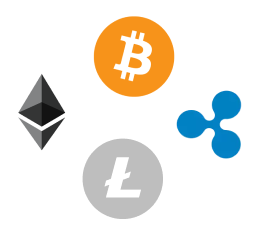
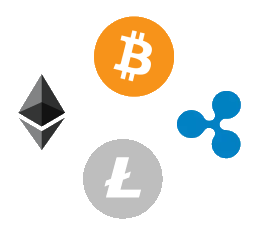
Created landing page

diff --git a/mimicoin/src/components/LandingPage.js b/mimicoin/src/components/LandingPage.js
@@ -1,0 +1,31 @@
+import React from 'react';
+
+import style from './styles/LandingPage.module.scss';
+import coinImage from '../images/coin-group.png';
+import magnifyChart from '../images/magnify-chart.svg';
+import digitalWallet from '../images/digital-wallet.svg';
+
+export const LandingPage = () => {
+  return(
+    <div className={style.landing}>
+      <div className={style.welcome}>
+        <h1>Welcome to Mimicoin!</h1>
+        <h4>Explore the wonders of cryptocurrency trading with a platform that allows you to simulate the real world.</h4>
+      </div>
+      <div className={style.introRow}>
+        <div className={style.introGroup}>
+          <img style={{width: '180px'}}src={coinImage}/>
+          <p>Follow the traffic of the giants and the newest altcoins that can be the next big thing.</p>
+        </div>
+        <div className={style.introGroup}>
+          <img src={magnifyChart}/>
+          <p>Coin prices are tracked in real-time for a more immersive experience.</p>
+        </div>
+        <div className={style.introGroup}>
+          <img src={digitalWallet}/>
+          <p>Learn what it takes to become profitable in the volatile market of cryptocurrency</p>
+        </div>
+      </div>
+    </div>
+  )
+}

diff --git a/mimicoin/src/components/styles/LandingPage.module.scss b/mimicoin/src/components/styles/LandingPage.module.scss
@@ -1,0 +1,42 @@
+$nav-font: 'ABeeZee', sans-serif;
+
+.landing{
+  font-family: $nav-font;
+  width: 100%;
+  height: 100%;
+}
+.welcome{
+  width: 100%;
+  h1{
+    width: 75%;
+    margin-left: 10%;
+    margin-top: 10%;
+    font-size: 42px;
+  }
+  h4{
+    width: 75%;
+    margin-left: 10%;
+    font-size: 28px;
+  }
+}
+
+.introRow{
+  display: flex;
+  flex-wrap: wrap;
+  width: 80%;
+  justify-content: space-around;
+  margin-left: 10%;
+  margin-top: 50px;
+  .introGroup {
+    display: flex;
+    flex-direction: column;
+    width: 180px;
+    padding-top: 50px;
+    align-items: center;
+    img{
+      width: 130px;
+      height: 160px;
+    }
+  }
+
+}

diff --git a/mimicoin/src/App.js b/mimicoin/src/App.js
@@ -1,6 +1,9 @@
 import React, { Component } from 'react';
 import {BrowserRouter, Route} from 'react-router-dom';
+
 import {Header} from './components/header/Header.js';
+import {LandingPage} from './components/LandingPage.js';
+
 import style from './App.module.scss';
 
 class App extends Component {
@@ -10,7 +13,7 @@ class App extends Component {
         <BrowserRouter>
           <div>
             <Header />
-            {/*<Route exact path="/" component={LandingSection}/>*/}
+            <Route exact path="/" component={LandingPage}/>
           </div>
         </BrowserRouter>
       </div>
